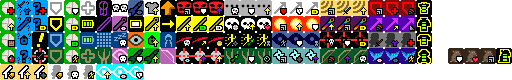
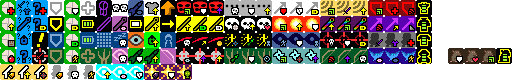
영웅 특성 아이콘, 영웅 직업 아이콘, 설명, 특성 추가 및 연결

Changed region(s): [[0.2812, 0.8, 0.375, 1.0]]

diff --git a/core/src/main/java/com/shatteredpixel/shatteredpixeldungeon/actors/hero/Talent.java b/core/src/main/java/com/shatteredpixel/shatteredpixeldungeon/actors/hero/Talent.java
@@ -21,8 +21,6 @@
 
 package com.shatteredpixel.shatteredpixeldungeon.actors.hero;
 
-import static com.shatteredpixel.shatteredpixeldungeon.Dungeon.hero;
-
 import com.shatteredpixel.shatteredpixeldungeon.Assets;
 import com.shatteredpixel.shatteredpixeldungeon.Dungeon;
 import com.shatteredpixel.shatteredpixeldungeon.GamesInProgress;
@@ -107,6 +105,8 @@ public enum Talent {
 	EMPOWERED_STRIKE(43, 3), MYSTICAL_CHARGE(44, 3), EXCESS_CHARGE(45, 3),
 	//Warlock T3
 	SOUL_EATER(46, 3), SOUL_SIPHON(47, 3), NECROMANCERS_MINIONS(48, 3),
+	//engineer T3
+	MAGIC_BULLET(137, 3), MAGICAL_ENGINEERING(138, 3), GAS_MASK(139, 3),
 	//Elemental Blast T4
 	BLAST_RADIUS(49, 4), ELEMENTAL_POWER(50, 4), REACTIVE_BARRIER(51, 4),
 	//Wild Magic T4
@@ -583,6 +583,9 @@ public enum Talent {
 				break;
 			case WARLOCK:
 				Collections.addAll(tierTalents, SOUL_EATER, SOUL_SIPHON, NECROMANCERS_MINIONS);
+				break;
+			case ENGINEER:
+				Collections.addAll(tierTalents, MAGIC_BULLET, MAGICAL_ENGINEERING, GAS_MASK);
 				break;
 			case ASSASSIN:
 				Collections.addAll(tierTalents, ENHANCED_LETHALITY, ASSASSINS_REACH, BOUNTY_HUNTER);

diff --git a/core/src/main/java/com/shatteredpixel/shatteredpixeldungeon/ui/HeroIcon.java b/core/src/main/java/com/shatteredpixel/shatteredpixeldungeon/ui/HeroIcon.java
@@ -22,7 +22,7 @@ public class HeroIcon extends Image {
 
 	public static final int BATTLEMAGE  = 2;
 	public static final int WARLOCK     = 3;
-	//public static final int
+	public static final int ENGINEER    = 24;
 	public static final int ASSASSIN    = 4;
 	public static final int FREERUNNER  = 5;
 	public static final int CHASER      = 22;
